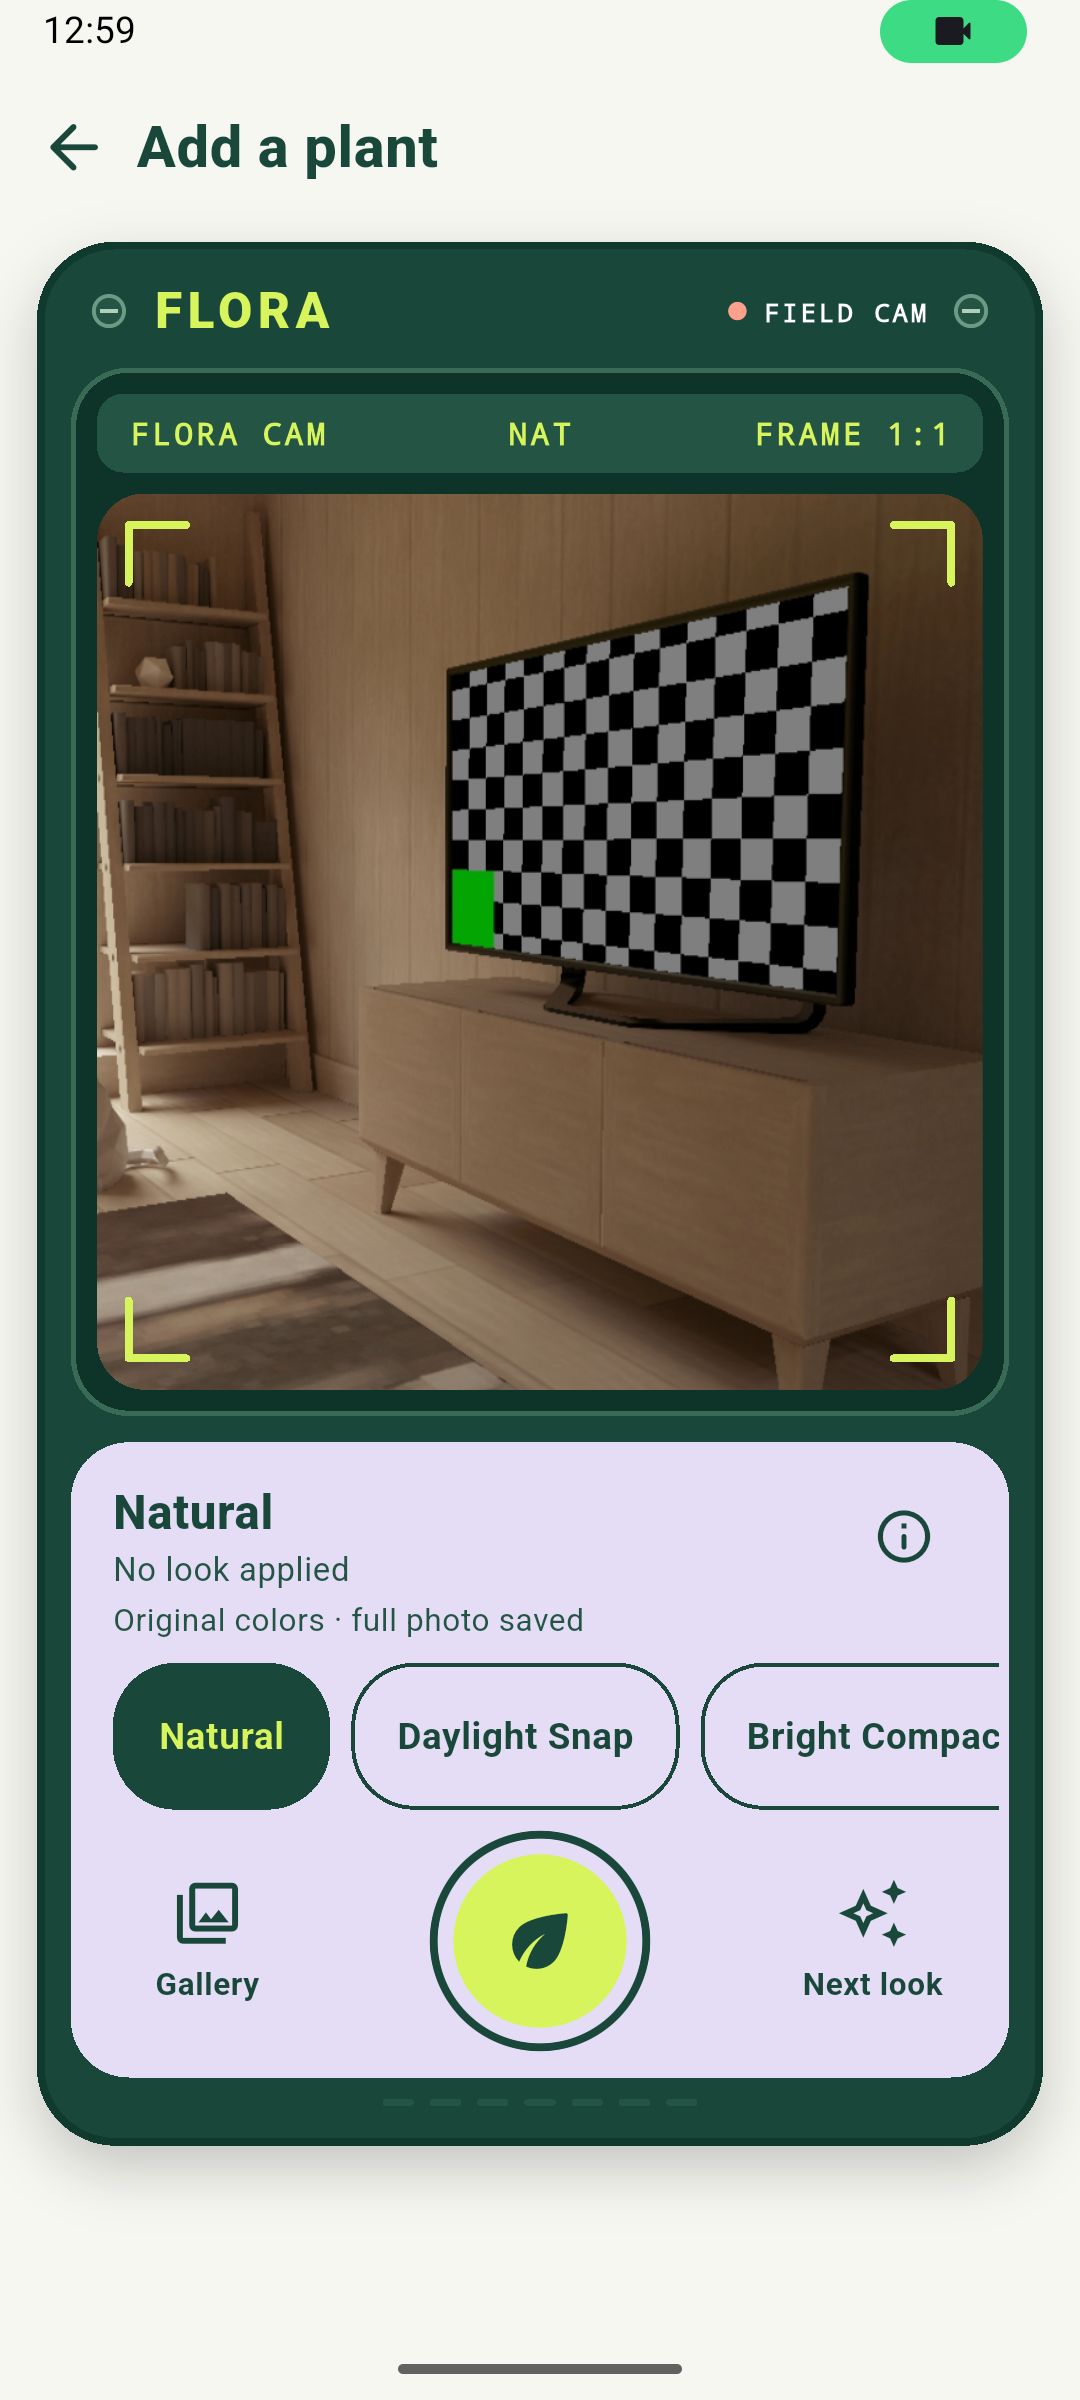
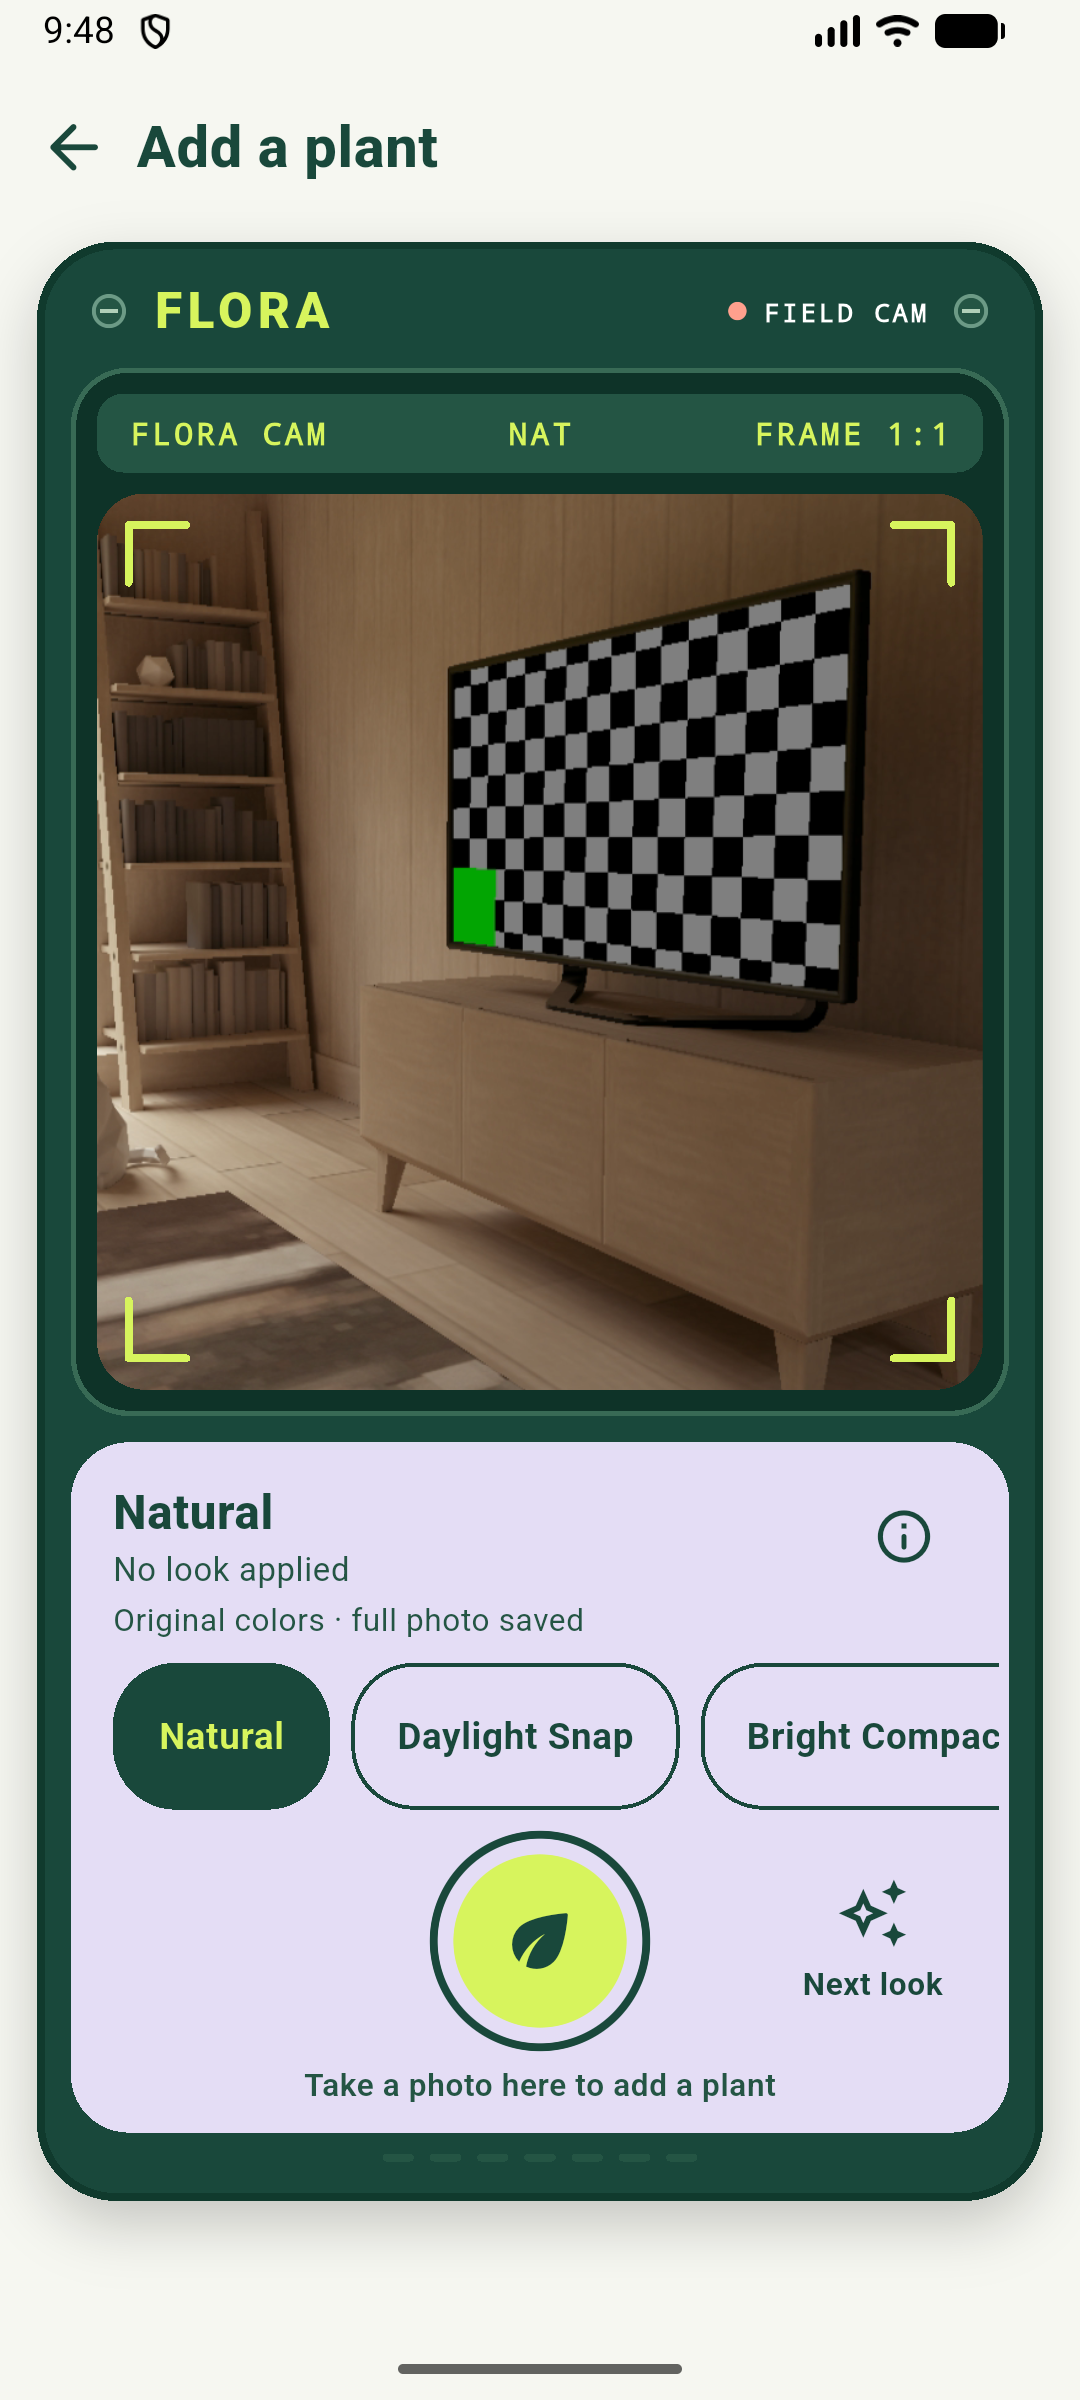
Require in-app camera photos for new plants

diff --git a/lib/features/camera/add_plant_camera_screen.dart b/lib/features/camera/add_plant_camera_screen.dart
@@ -3,7 +3,6 @@ import 'dart:math' as math;
 import 'package:camera/camera.dart';
 import 'package:flutter/material.dart';
 import 'package:flutter/services.dart';
-import 'package:image_picker/image_picker.dart';
 
 import 'camera_look.dart';
 import 'look_baker.dart';
@@ -100,8 +99,8 @@ class _AddPlantCameraScreenState extends State<AddPlantCameraScreen>
       if (mounted) setState(() => _errorMessage = _messageFor(e));
     } catch (_) {
       if (mounted) {
-        setState(() => _errorMessage =
-            'The camera couldn’t start. Please try again, or choose a photo from your gallery.');
+        setState(() =>
+            _errorMessage = 'The camera couldn’t start. Please try again.');
       }
     } finally {
       _starting = false;
@@ -113,9 +112,9 @@ class _AddPlantCameraScreenState extends State<AddPlantCameraScreen>
       case 'CameraAccessDenied':
       case 'CameraAccessDeniedWithoutPrompt':
       case 'CameraAccessRestricted':
-        return 'FLORA needs camera access to add a plant photo. You can allow it in your phone’s Settings, or choose a photo from your gallery instead.';
+        return 'FLORA needs camera access to add a plant photo. Allow it in your phone’s Settings, then try again.';
       default:
-        return 'The camera couldn’t start. Please try again, or choose a photo from your gallery.';
+        return 'The camera couldn’t start. Please try again.';
     }
   }
 
@@ -170,18 +169,6 @@ class _AddPlantCameraScreenState extends State<AddPlantCameraScreen>
       _snack('Couldn’t take the photo. Please try again.');
     } finally {
       if (mounted) setState(() => _busy = false);
-    }
-  }
-
-  Future<void> _pickFromGallery() async {
-    if (_busy) return;
-    try {
-      final picked = await ImagePicker().pickImage(source: ImageSource.gallery);
-      if (picked == null || !mounted) return;
-      // Looks apply to camera captures only; gallery photos stay untouched.
-      widget.onPhotoReady(CapturedPlantPhoto(originalPath: picked.path));
-    } catch (_) {
-      _snack('Couldn’t open your gallery. Please try again.');
     }
   }
 
@@ -335,6 +322,12 @@ class _AddPlantCameraScreenState extends State<AddPlantCameraScreen>
                 _lookChips(anim),
                 const SizedBox(height: 8),
                 _controls(),
+                const SizedBox(height: 4),
+                const Text('Take a photo here to add a plant',
+                    style: TextStyle(
+                        color: CameraPalette.forestSoft,
+                        fontSize: 12,
+                        fontWeight: FontWeight.w600)),
               ],
             ),
           ),
@@ -683,12 +676,7 @@ class _AddPlantCameraScreenState extends State<AddPlantCameraScreen>
         mainAxisAlignment: MainAxisAlignment.spaceBetween,
         crossAxisAlignment: CrossAxisAlignment.center,
         children: [
-          _sideButton(
-            icon: Icons.photo_library_outlined,
-            label: 'Gallery',
-            semantics: 'Choose a photo from your gallery',
-            onTap: _busy ? null : _pickFromGallery,
-          ),
+          const SizedBox(width: 72),
           Semantics(
             button: true,
             enabled: ready,

diff --git a/lib/main.dart b/lib/main.dart
@@ -1,7 +1,6 @@
 import 'dart:io';
 
 import 'package:flutter/material.dart';
-import 'package:image_picker/image_picker.dart';
 
 import 'data/game_rules.dart';
 import 'data/game_store.dart';
@@ -54,22 +53,13 @@ class _FloraAppState extends State<FloraApp> {
     }
   }
 
-  Future<void> scan({ImageSource source = ImageSource.camera}) async {
+  Future<void> scan() async {
     try {
       final navigator = navigatorKey.currentState;
       if (navigator == null) return;
-      CapturedPlantPhoto? photo;
-      if (source == ImageSource.camera) {
-        photo = await navigator.push<CapturedPlantPhoto>(MaterialPageRoute(
-            builder: (_) => AddPlantCameraScreen(
-                onPhotoReady: (photo) => navigator.pop(photo))));
-      } else {
-        final picked = await ImagePicker()
-            .pickImage(source: source, maxWidth: 1600, imageQuality: 85);
-        if (picked != null) {
-          photo = CapturedPlantPhoto(originalPath: picked.path);
-        }
-      }
+      final photo = await navigator.push<CapturedPlantPhoto>(MaterialPageRoute(
+          builder: (_) => AddPlantCameraScreen(
+              onPhotoReady: (photo) => navigator.pop(photo))));
       if (photo == null || !mounted) return;
       final capturedPhoto = photo;
       final result = await navigator.push<SaveResult>(
@@ -206,10 +196,7 @@ class _FloraAppState extends State<FloraApp> {
         }
         final state = snapshot!;
         final pages = <Widget>[
-          PlantdexPage(
-              state: state,
-              onScan: () => scan(),
-              onLibrary: () => scan(source: ImageSource.gallery)),
+          PlantdexPage(state: state, onScan: () => scan()),
           JournalPage(state: state, onChanged: refresh),
           QuestPage(state: state, onClaim: claim),
           ProfilePage(state: state),
@@ -426,14 +413,9 @@ class _ReviewPageState extends State<ReviewPage> {
 }
 
 class PlantdexPage extends StatefulWidget {
-  const PlantdexPage(
-      {super.key,
-      required this.state,
-      required this.onScan,
-      required this.onLibrary});
+  const PlantdexPage({super.key, required this.state, required this.onScan});
   final GameSnapshot state;
   final VoidCallback onScan;
-  final VoidCallback onLibrary;
 
   @override
   State<PlantdexPage> createState() => _PlantdexPageState();
@@ -480,11 +462,6 @@ class _PlantdexPageState extends State<PlantdexPage> {
                           fontSize: 10,
                           fontWeight: FontWeight.w800,
                           letterSpacing: 0.5))),
-              const SizedBox(width: 5),
-              IconButton(
-                  onPressed: widget.onLibrary,
-                  tooltip: 'Choose a photo',
-                  icon: const Icon(Icons.add_photo_alternate_outlined)),
             ]),
             const SizedBox(height: 25),
             const Text('Plantdex',

diff --git a/lib/features/camera/camera_look.dart b/lib/features/camera/camera_look.dart
@@ -182,7 +182,7 @@ class CapturedPlantPhoto {
     this.lookId = 'natural',
   });
 
-  /// The untouched capture (or gallery pick), original aspect ratio.
+  /// The untouched in-app camera capture, original aspect ratio.
   final String originalPath;
 
   /// A copy with the look baked in, or null when no look was applied.

diff --git a/README.md b/README.md
@@ -13,7 +13,7 @@ flutter run
 
 ## What the app currently does
 
-- Opens on the Plantdex and provides a center **Add a plant** camera action. The in-app FLORA Field Cam has a square viewfinder, five subtle digicam-inspired looks, a shutter, and a gallery picker. The square frame is only a preview; captures keep their full aspect ratio.
+- Opens on the Plantdex and provides a center **Add a plant** camera action. New observations require a photo taken in the in-app FLORA Field Cam; gallery imports are unavailable. The camera has a square viewfinder, five subtle digicam-inspired looks, and a shutter. The square frame is only a preview; captures keep their full aspect ratio.
 - Shows the selected photo for review. You can search the small sample catalog and manually choose a plant, or save the photo as unknown with an optional note. When a camera look is applied, review lets you save the edited copy or the original.
 - Saves photos, notes, and observations in a local journal. You can edit notes and delete an observation.
 - Tracks first discoveries, capped repeat XP, daily and weekly quest progress and claims, and two achievement milestones.
@@ -33,7 +33,7 @@ Plant selection is user-provided. FLORA does **not** identify plants from photos
 
 The UI has Plantdex, Journal, Quests, and profile tabs with a soft neutral palette, bright accents, original simple illustrations, and small entrance animations. Settings are not implemented yet.
 
-Camera looks are creative effects inspired by the general feel of compact digital cameras. They are not official Canon or Sony modes. The live preview approximates the saved treatment; grain appears only after capture. Gallery photos are not filtered. Camera behavior and image processing still need testing on physical devices, especially lower-end phones.
+Camera looks are creative effects inspired by the general feel of compact digital cameras. They are not official Canon or Sony modes. The live preview approximates the saved treatment; grain appears only after capture. Camera behavior and image processing still need testing on physical devices, especially lower-end phones.
 
 ## Screenshots
 
